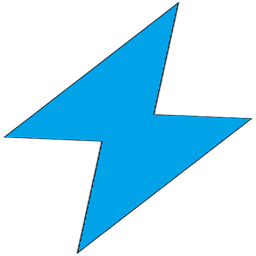
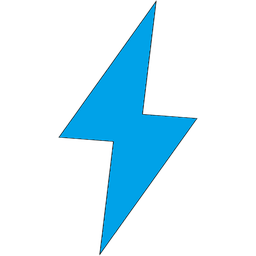
feat(tray): tooltip shows 总体模式's current selection
The hover tooltip now displays '总体模式：<selected item>' fetched from the
core API, refreshed every 15s, plus a hint for left/right click.

Changed region(s): [[0.0, 0.1562, 0.5, 1.0], [0.5, 0.0, 1.0, 0.8438]]

diff --git a/tray/src/main.rs b/tray/src/main.rs
@@ -147,6 +147,31 @@ fn tun_enabled() -> bool {
     }
 }
 
+/// Tooltip showing the currently selected item under the top-level 总体模式 group.
+fn overall_mode_tooltip() -> String {
+    let client = reqwest::blocking::Client::builder()
+        .timeout(std::time::Duration::from_secs(3))
+        .build()
+        .ok();
+    if let Some(c) = client {
+        if let Ok(resp) = c.get(format!("{CORE_API}/proxies")).send() {
+            if resp.status().is_success() {
+                if let Ok(v) = resp.json::<serde_json::Value>() {
+                    let now = v
+                        .get("proxies")
+                        .and_then(|p| p.get("总体模式"))
+                        .and_then(|g| g.get("now"))
+                        .and_then(|n| n.as_str())
+                        .unwrap_or("");
+                    if !now.is_empty() {
+                        return format!("总体模式：{now}");
+                    }
+                }
+            }
+        }
+    }
+    "总体模式".to_string()
+}
 /// Check whether the Windows system proxy points at the core (enabled).
 fn system_proxy_enabled() -> bool {
     use winreg::enums::HKEY_CURRENT_USER;
@@ -315,6 +340,7 @@ struct Application {
     mode_sysproxy: Arc<CheckMenuItem>,
     autostart_item: Arc<CheckMenuItem>,
     exit_item: Arc<MenuItem>,
+    last_tooltip_refresh: std::time::Instant,
 }
 
 impl Application {
@@ -366,6 +392,7 @@ impl Application {
             mode_sysproxy,
             autostart_item,
             exit_item,
+            last_tooltip_refresh: std::time::Instant::now(),
         }
     }
 
@@ -378,18 +405,15 @@ impl Application {
         let mode = detect_mode();
         self.refresh_mode_checks(mode);
         let icon = load_icon(mode);
+        let tip = format!(
+            "{} | 左键开关，右键菜单",
+            overall_mode_tooltip()
+        );
         self.tray_icon = Some(
             TrayIconBuilder::new()
                 .with_menu_on_left_click(false)
                 .with_menu(Box::new(self.menu()))
-                .with_tooltip(format!(
-                    "Clashtui 托盘 - 左键开关，右键菜单{}",
-                    match mode {
-                        IconMode::Normal => "",
-                        IconMode::Tun => " (TUN)",
-                        IconMode::SystemProxy => " (系统代理)",
-                    }
-                ))
+                .with_tooltip(&tip)
                 .with_icon(icon)
                 .build()
                 .expect("failed to create tray icon"),
@@ -436,6 +460,19 @@ impl ApplicationHandler<UserEvent> for Application {
         if winit::event::StartCause::Init == cause {
             self.rebuild_tray();
         }
+    }
+
+    fn about_to_wait(&mut self, event_loop: &ActiveEventLoop) {
+        // Refresh the tooltip periodically so it reflects the current
+        // selection under 总体模式 without spamming the API.
+        if self.last_tooltip_refresh.elapsed() >= std::time::Duration::from_secs(15) {
+            if let Some(tray) = &self.tray_icon {
+                let tip = format!("{} | 左键开关，右键菜单", overall_mode_tooltip());
+                let _ = tray.set_tooltip(Some(tip));
+            }
+            self.last_tooltip_refresh = std::time::Instant::now();
+        }
+        event_loop.set_control_flow(winit::event_loop::ControlFlow::Wait);
     }
 
     fn user_event(&mut self, _event_loop: &winit::event_loop::ActiveEventLoop, event: UserEvent) {
